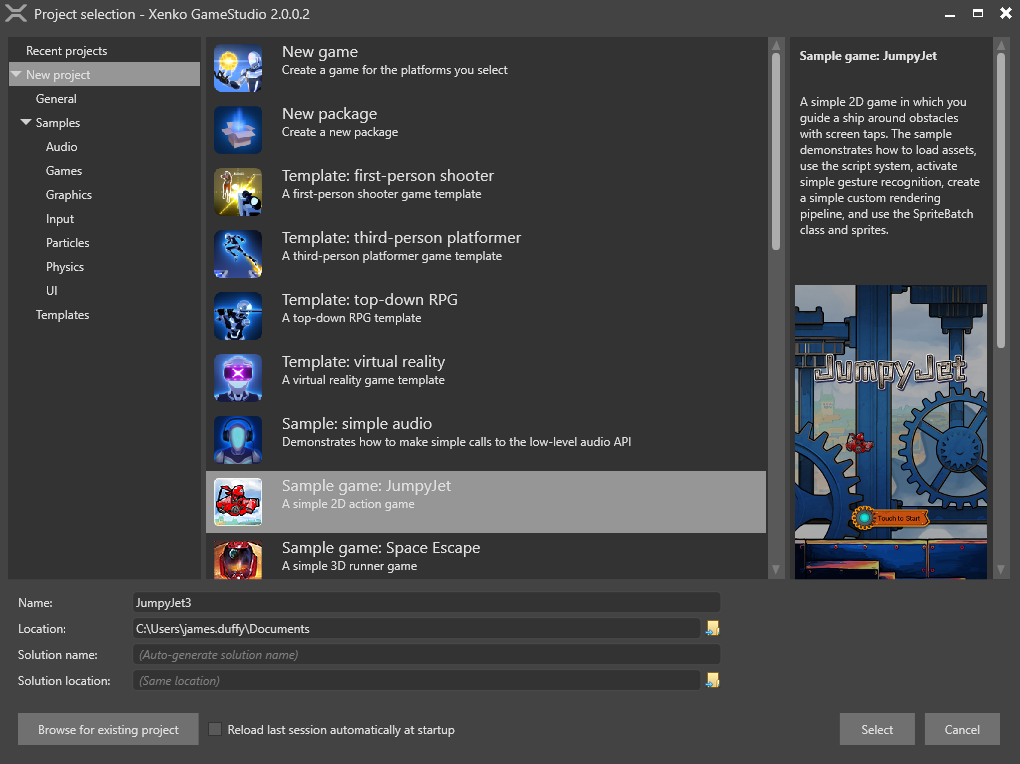
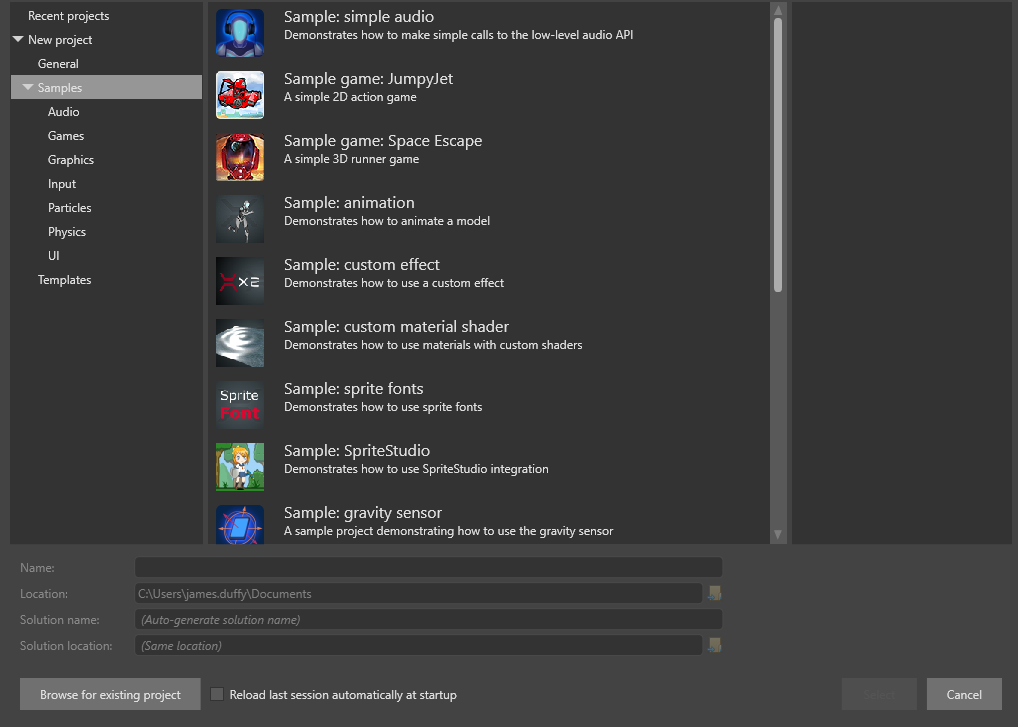
[Game Studio] update screenshots, add target audience labels

diff --git a/manual/get-started/create-a-project.md b/manual/get-started/create-a-project.md
@@ -61,14 +61,11 @@ The **Create a new game** dialog opens.
 
 Xenko creates the project and opens it in Game Studio. For more information, see [Game Studio](../game-studio/index.md).
 
-## Create a project from a sample
+## Create a project from a sample or template
 
-Xenko provides two types of sample project:
-
- * **Feature showcase samples** demonstrate a specific feature.
- * **Mini-game samples** demonstrate how to use different modules to create a simple game.
+Xenko includes several sample projects demonstrating each part of the engine (2D, 3D, sprites, fonts, UI, audio, input, etc). It also includes template games to help you make your own game. 
     
-To create a project from a sample:
+To create a project from a sample or template:
 
  1. Open the **New Project** dialog.
     
